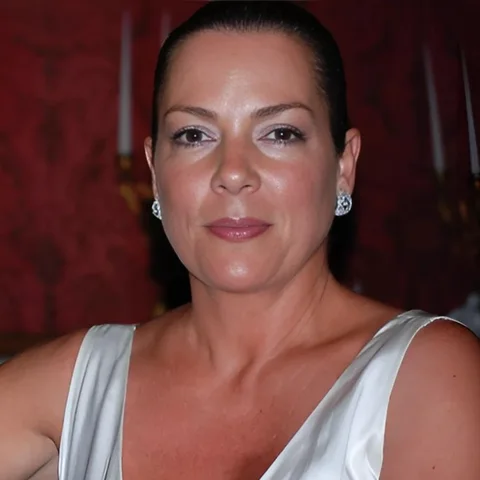
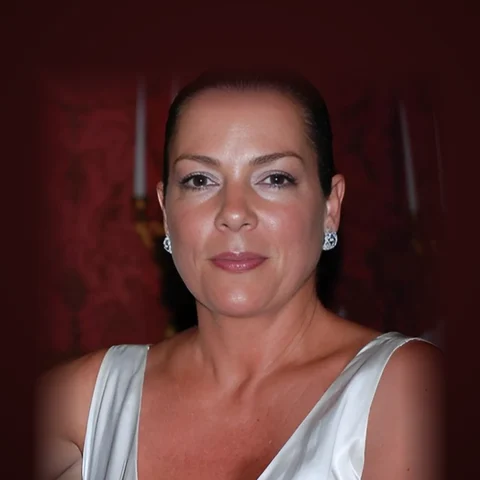
Team page corrections: photos, bios, tighter layout (#21)
Claude-Session: https://claude.ai/code/session_01QaSNUs3kMkBisfXYmeyphN

diff --git a/src/pages/Team.jsx b/src/pages/Team.jsx
@@ -1,12 +1,10 @@
-import { Link } from 'react-router-dom';
-import { ArrowRight } from 'lucide-react';
 
 // Team — same people, roles and bios as the 2026 investor deck.
 const LEADERSHIP = [
-  { slug: 'alessandro-vaccari', name: 'Alessandro Vaccari', role: 'Founder & CEO', bio: 'Ex Ferrero and Barilla. International sales and marketing across UK, Switzerland, Germany and Australia in FMCG multinationals.' },
-  { slug: 'alexandra-akira', name: 'Alexandra Akira', role: 'Co-Founder & CFO', bio: 'CuratePurpose. Next Level Productions, NYC. United Nations.' },
+  { slug: 'alessandro-vaccari', name: 'Alessandro Vaccari', role: 'Founder & CEO', bio: 'International sales and marketing across UK, Switzerland, Germany and Australia in FMCG multinationals.' },
+  { slug: 'alexandra-akira', name: 'Alexandra Akira', role: 'Co-Founder & CFO', bio: 'CuratePurpose. Next Level Productions. United Nations.' },
   { slug: 'michele-barchiesi', name: 'Michele Barchiesi', role: 'CMO', bio: 'Producer and Made in Italy expert. Co-owner, Giorgione Orto & Cucina. Owner, Cantina Antonelli San Marco.' },
-  { slug: 'edoardo-di-piero', name: 'Edoardo Di Piero', role: 'CTO', bio: 'Full-stack developer. Founder, Aiscanner.ai.' },
+  { slug: 'edoardo-di-piero', name: 'Edoardo Di Piero', role: 'CTO', bio: 'Full-stack developer. Founder, GalacticaSoft.com.' },
 ];
 
 const ADVISORS = [
@@ -37,14 +35,11 @@ function Person({ p, large }) {
 export default function Team() {
   return (
     <div style={{ flex: 1, overflowY: 'auto', background: '#F0F7EE' }}>
-      <div className="team-wrap" style={{ maxWidth: 1200, margin: '0 auto', padding: '56px 32px 72px' }}>
+      <div className="team-wrap" style={{ maxWidth: 1200, margin: '0 auto', padding: '56px 32px 64px' }}>
         <span style={{ fontSize: 11, fontWeight: 700, letterSpacing: '0.12em', textTransform: 'uppercase', color: '#2E7D32', display: 'block', marginBottom: 14 }}>OUR TEAM</span>
-        <h1 style={{ fontFamily: "'Playfair Display',serif", fontSize: 'clamp(32px, 4.5vw, 52px)', fontWeight: 700, color: '#1A1A1A', lineHeight: 1.12, margin: '0 0 16px' }}>
+        <h1 style={{ fontFamily: "'Playfair Display',serif", fontSize: 'clamp(32px, 4.5vw, 52px)', fontWeight: 700, color: '#1A1A1A', lineHeight: 1.12, margin: '0 0 32px' }}>
           The people <em style={{ color: '#4CAF50' }}>building Bottega</em>
         </h1>
-        <p style={{ fontSize: 16, color: '#555', lineHeight: 1.75, maxWidth: 640, margin: '0 0 44px' }}>
-          FMCG commercial leadership, finance, technology and Made in Italy production expertise — one team connecting Italy’s artisan producers with buyers worldwide.
-        </p>
 
         <div className="team-grid team-grid-4" style={{ display: 'grid', gridTemplateColumns: 'repeat(4, minmax(0, 1fr))', gap: 22 }}>
           {LEADERSHIP.map((p) => <Person key={p.slug} p={p} large />)}
@@ -55,15 +50,6 @@ export default function Team() {
           {ADVISORS.map((p) => <Person key={p.slug} p={p} />)}
         </div>
 
-        <div style={{ marginTop: 56, padding: '28px 30px', borderRadius: 20, background: '#1B3A1B', color: '#fff', display: 'flex', alignItems: 'center', justifyContent: 'space-between', gap: 20, flexWrap: 'wrap' }}>
-          <div>
-            <h3 style={{ fontFamily: "'Playfair Display',serif", fontSize: 22, margin: '0 0 6px' }}>Work with us</h3>
-            <p style={{ margin: 0, fontSize: 14, color: 'rgba(255,255,255,0.75)' }}>Producers, buyers and partners — we’d love to hear from you.</p>
-          </div>
-          <Link to="/About" style={{ display: 'inline-flex', alignItems: 'center', gap: 8, padding: '12px 20px', borderRadius: 100, background: '#4CAF50', color: '#fff', fontWeight: 700, fontSize: 14, textDecoration: 'none' }}>
-            About Bottega <ArrowRight size={16} />
-          </Link>
-        </div>
       </div>
       <style>{`
         @media (max-width: 1024px) { .team-grid-4 { grid-template-columns: repeat(2, minmax(0, 1fr)) !important; } }
